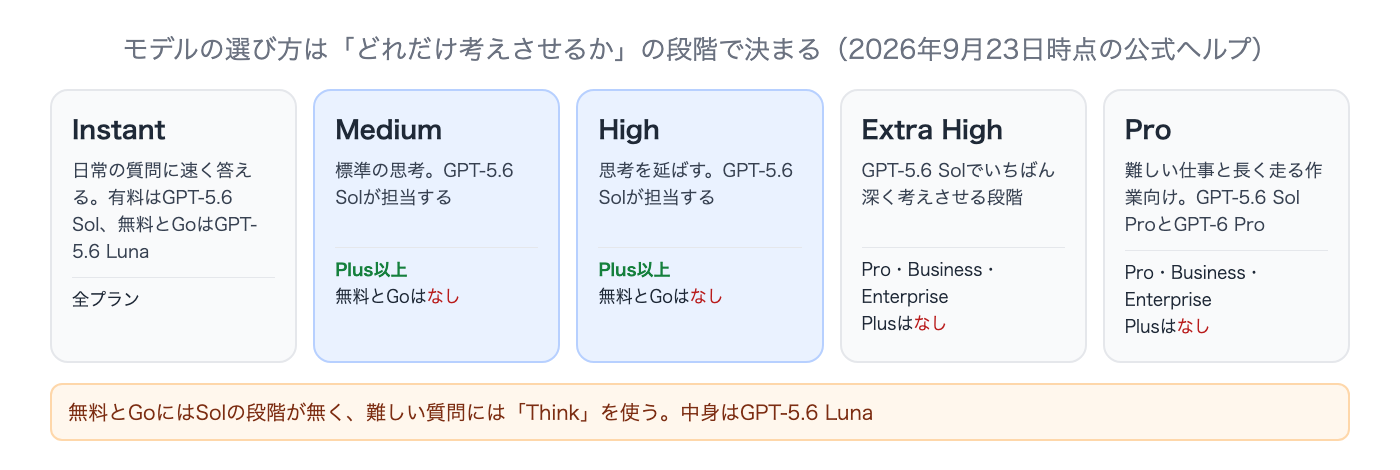
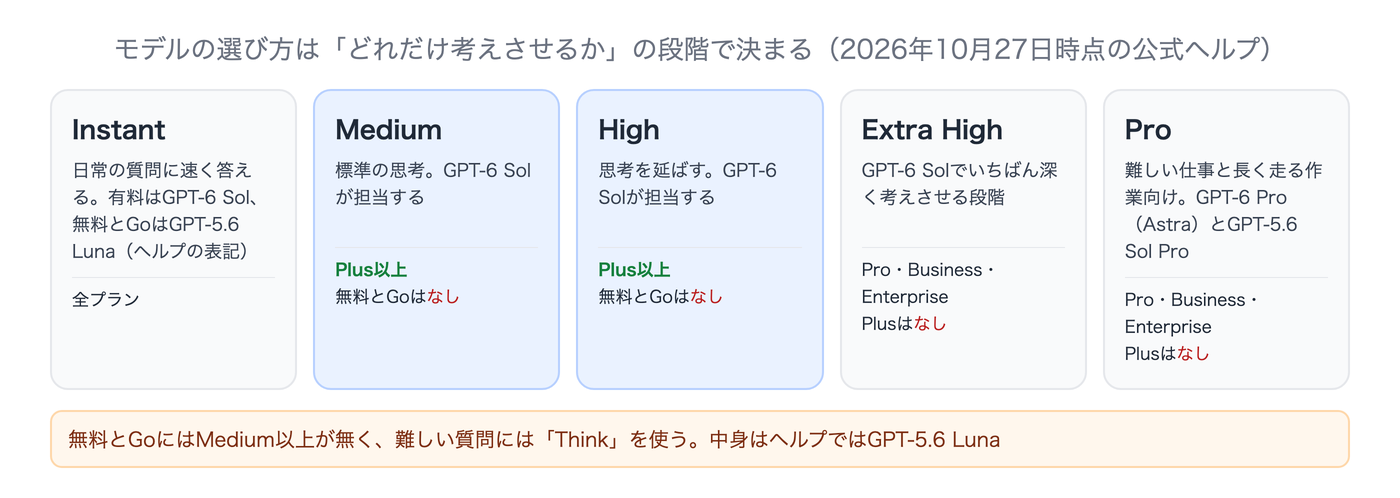
小改善: ChatGPT のモデル表記を10/7のGPT-6に（pricing・astra-guide・guide・slow、図2枚）

diff --git a/media/posts/chatgpt-guide.md b/media/posts/chatgpt-guide.md
@@ -1,6 +1,7 @@
 ---
 title: 【2026年9月】ChatGPTの使い方を公式ヘルプで確認｜モデル選択・ファイル・プラグイン
 date: 2026-09-23
+modified: 2026-10-27
 category: AI検索対策
 description: ChatGPTの使い方を2026年9月の公式ヘルプで確認しました。Thinkingのスライダーによるモデル選択、ライブラリからのファイル参照、カスタムGPTの終了予定とプラグインへの移行までまとめます。
 cover_tag: 使い方
@@ -46,21 +47,23 @@ chatgpt.comはアカウントを作る前に入力欄へそのまま質問を打
 
 ## モデルは考える深さで選ぶ
 
-2026年9月時点のモデル選択は、モデル名の一覧から選ぶ形ではありません。**Thinkingのスライダー**で、どれだけ考えさせるかを選びます。
+2026年10月時点のモデル選択は、モデル名の一覧から選ぶ形ではありません。**Thinkingのスライダー**で、どれだけ考えさせるかを選びます。
 
 | 段階 | 中身 | 使えるプラン |
 |---|---|---|
-| Instant | 日常の質問向け。有料はGPT-5.6 Sol、無料とGoはGPT-5.6 Luna | 全プラン |
-| Medium | 標準の思考。GPT-5.6 Sol | Plus・Pro・Business・Enterprise |
-| High | 思考を延ばす。GPT-5.6 Sol | Plus・Pro・Business・Enterprise |
-| Extra High | GPT-5.6 Solで最も深い段階 | Pro・Business・Enterprise |
-| Pro | GPT-5.6 Sol ProとGPT-6 Pro | Pro・Business・Enterprise |
+| Instant | 日常の質問向け。有料はGPT-6 Sol、無料とGoはヘルプではGPT-5.6 Luna | 全プラン |
+| Medium | 標準の思考。GPT-6 Sol | Plus・Pro・Business・Enterprise |
+| High | 思考を延ばす。GPT-6 Sol | Plus・Pro・Business・Enterprise |
+| Extra High | GPT-6 Solで最も深い段階 | Pro・Business・Enterprise |
+| Pro | GPT-6 Pro（GPT-6 Astra）とGPT-5.6 Sol Pro | Pro・Business・Enterprise |
 
-<figure class="post-figure"><img src="/media/images/chatgpt-guide/cg_03_fig_thinking.png" alt="ChatGPTの思考の段階とプランの対応図。Instantは全プラン、MediumとHighはPlus以上、Extra HighとProはProとBusinessとEnterpriseのみ。無料とGoにはSolの段階がなくThinkはGPT-5.6 Lunaが担当する" loading="lazy"><figcaption>思考の段階と、それぞれが使えるプラン</figcaption></figure>
+10月7日から、有料プランでGPT-6を選ぶとInstantからExtra HighまではGPT-6 Solが動きます。GPT-5.6 Solを自分で選んだときはGPT-5.6のままです。
+
+<figure class="post-figure"><img src="/media/images/chatgpt-guide/cg_03_fig_thinking.png" alt="ChatGPTの思考の段階とプランの対応図。Instantは全プランで有料はGPT-6 Sol、MediumとHighはPlus以上、Extra HighとProはProとBusinessとEnterpriseのみ。無料とGoにはMedium以上の段階がなくThinkはヘルプではGPT-5.6 Lunaが担当する" loading="lazy"><figcaption>思考の段階と、それぞれが使えるプラン</figcaption></figure>
 
 選ぶときに効くのは、日常でどの段階まで使うかです。Highまでで足りるならPlus、それより上の段階を常用するなら上位プランという分かれ方になります。
 
-無料版とGoにはGPT-5.6 Solの段階がありません。難しい質問には「Think」を使いますが、中身はGPT-5.6 Lunaです。日常のテキストチャットの回数は、無料版とGoでも上限なしと公式に書かれています。ファイルのアップロード、画像生成、音声、データ分析などには別の上限があります。
+無料版とGoにはMedium以上の段階がありません。難しい質問には「Think」を使い、モデルのヘルプでは中身はGPT-5.6 Lunaです。料金ページの比較表と10月7日のリリースノートは無料とGoのモデルをGPT-6 Lunaと書いていて、公式の中で表記が分かれています（2026年10月27日確認）。日常のテキストチャットの回数は、無料版とGoでも上限なしと公式に書かれています。ファイルのアップロード、画像生成、音声、データ分析などには別の上限があります。
 
 GPT-6 Astraはチャットでは**GPT-6 Pro**という名前でProとBusinessとEnterpriseに提供されます。Plusの契約でAstraに触れるのは、チャットではなくChatGPT WorkとCodexの中です。料金ページの比較表ではPlusのGPT-6 Astraが「上限あり」と出ますが、これはチャットではなくChatGPT WorkとCodexでの提供を指します。
 
